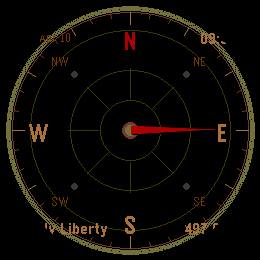
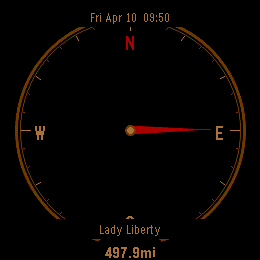
fix: 4 circle bubbles on round, black pills on rect, Premium default
Round: 4 black circle bubbles in each quadrant of the compass:
- Top-left: day + date (2 lines)
- Top-right: time
- Bottom-left: location name (wraps to 2 lines)
- Bottom-right: distance

Rect: black pill backgrounds behind all 4 corners so text is
visible over Tech theme's degree numbers.

Premium is now the default theme (enum value 0).
Minimal theme removed — 3 themes: Premium, Classic, Tech.

diff --git a/src/c/main.c b/src/c/main.c
@@ -25,7 +25,7 @@
 #define P_LOC_BASE 10  // 10-15=lat, 20-25=lon, 30-35=name
 
 // Themes
-enum { THEME_CLASSIC=0, THEME_TECH, THEME_PREMIUM };
+enum { THEME_PREMIUM=0, THEME_CLASSIC, THEME_TECH };
 #define NUM_THEMES 3
 
 // Units
@@ -204,61 +204,88 @@ static void draw_info(GContext *ctx, GRect b, float dist_m, const char *name,
   GFont f_sm = fonts_get_system_font(FONT_KEY_GOTHIC_14);
 
   if(rnd) {
-    // Round: centered text with pill backgrounds
-    int top_y = 8;
-    int bot_y = h - 40;
+    // Round: 4 small circle bubbles in each quadrant of the compass
+    int qr = 28;   // Bubble radius
+    int qd = 52;   // Distance from center to bubble center
+    // Top-left: date
+    int q1x=cx-qd, q1y=cy-qd;
+    graphics_context_set_fill_color(ctx, GColorBlack);
+    graphics_fill_circle(ctx, GPoint(q1x,q1y), qr);
+    graphics_context_set_text_color(ctx, dim_c);
+    // Split date into 2 lines
+    char day_buf[4], mon_buf[8];
+    strftime(day_buf, sizeof(day_buf), "%a", tm);
+    strftime(mon_buf, sizeof(mon_buf), "%b %d", tm);
+    graphics_draw_text(ctx, day_buf, f_sm,
+      GRect(q1x-qr+2,q1y-12,qr*2-4,14), GTextOverflowModeTrailingEllipsis, GTextAlignmentCenter, NULL);
+    graphics_draw_text(ctx, mon_buf, f_sm,
+      GRect(q1x-qr+2,q1y,qr*2-4,14), GTextOverflowModeTrailingEllipsis, GTextAlignmentCenter, NULL);
 
-    // Top center: date + time on one line
-    GRect top_r = GRect(30, top_y, w-60, 18);
-    draw_pill(ctx, top_r);
-    char dt_buf[20];
-    snprintf(dt_buf, sizeof(dt_buf), "%s  %s", dbuf_date, tbuf);
+    // Top-right: time
+    int q2x=cx+qd, q2y=cy-qd;
+    graphics_context_set_fill_color(ctx, GColorBlack);
+    graphics_fill_circle(ctx, GPoint(q2x,q2y), qr);
     graphics_context_set_text_color(ctx, text_c);
-    graphics_draw_text(ctx, dt_buf, f_sm, top_r,
-      GTextOverflowModeTrailingEllipsis, GTextAlignmentCenter, NULL);
+    graphics_draw_text(ctx, tbuf, f_md,
+      GRect(q2x-qr+2,q2y-10,qr*2-4,22), GTextOverflowModeTrailingEllipsis, GTextAlignmentCenter, NULL);
 
-    // Bottom: name + distance
     if(has_dest) {
-      GRect name_r = GRect(20, bot_y, w-40, 18);
-      draw_pill(ctx, name_r);
+      // Bottom-left: name (small, 2 lines if needed)
+      int q3x=cx-qd, q3y=cy+qd;
+      graphics_context_set_fill_color(ctx, GColorBlack);
+      graphics_fill_circle(ctx, GPoint(q3x,q3y), qr);
       graphics_context_set_text_color(ctx, text_c);
-      graphics_draw_text(ctx, name, f_sm, name_r,
-        GTextOverflowModeTrailingEllipsis, GTextAlignmentCenter, NULL);
+      graphics_draw_text(ctx, name, f_sm,
+        GRect(q3x-qr+4,q3y-12,qr*2-8,28), GTextOverflowModeWordWrap, GTextAlignmentCenter, NULL);
 
+      // Bottom-right: distance
+      int q4x=cx+qd, q4y=cy+qd;
+      graphics_context_set_fill_color(ctx, GColorBlack);
+      graphics_fill_circle(ctx, GPoint(q4x,q4y), qr);
       char dbuf[16]; fmt_dist(dbuf, sizeof(dbuf), dist_m);
-      GRect dist_r = GRect(w/2-30, bot_y+20, 60, 18);
-      draw_pill(ctx, dist_r);
-      graphics_draw_text(ctx, dbuf, f_md, dist_r,
-        GTextOverflowModeTrailingEllipsis, GTextAlignmentCenter, NULL);
+      graphics_context_set_text_color(ctx, text_c);
+      graphics_draw_text(ctx, dbuf, f_md,
+        GRect(q4x-qr+2,q4y-10,qr*2-4,22), GTextOverflowModeTrailingEllipsis, GTextAlignmentCenter, NULL);
     } else {
-      GRect nr = GRect(30, bot_y+4, w-60, 18);
-      draw_pill(ctx, nr);
+      int q3x=cx, q3y=cy+qd;
+      graphics_context_set_fill_color(ctx, GColorBlack);
+      graphics_fill_circle(ctx, GPoint(q3x,q3y), qr+4);
       graphics_context_set_text_color(ctx, dim_c);
-      graphics_draw_text(ctx, "Add in Settings", f_sm, nr,
-        GTextOverflowModeTrailingEllipsis, GTextAlignmentCenter, NULL);
+      graphics_draw_text(ctx, "Settings", f_sm,
+        GRect(q3x-qr,q3y-8,qr*2,16), GTextOverflowModeTrailingEllipsis, GTextAlignmentCenter, NULL);
     }
   } else {
     // Rect: 4 corners
-    // Top-left: date
+    // Top-left: date (with black background for visibility)
+    GRect dl = GRect(2, 2, w/2-4, 18);
+    draw_pill(ctx, dl);
     graphics_context_set_text_color(ctx, dim_c);
-    graphics_draw_text(ctx, dbuf_date, f_sm,
-      GRect(4, 4, w/2-4, 16), GTextOverflowModeTrailingEllipsis, GTextAlignmentLeft, NULL);
+    graphics_draw_text(ctx, dbuf_date, f_sm, dl,
+      GTextOverflowModeTrailingEllipsis, GTextAlignmentLeft, NULL);
     // Top-right: time
+    GRect tr = GRect(w/2+2, 2, w/2-4, 20);
+    draw_pill(ctx, tr);
     graphics_context_set_text_color(ctx, text_c);
-    graphics_draw_text(ctx, tbuf, f_md,
-      GRect(w/2, 2, w/2-4, 22), GTextOverflowModeTrailingEllipsis, GTextAlignmentRight, NULL);
+    graphics_draw_text(ctx, tbuf, f_md, tr,
+      GTextOverflowModeTrailingEllipsis, GTextAlignmentRight, NULL);
     // Bottom
     if(has_dest) {
+      GRect bl = GRect(2, h-20, w/2-4, 18);
+      draw_pill(ctx, bl);
       graphics_context_set_text_color(ctx, text_c);
-      graphics_draw_text(ctx, name, f_sm,
-        GRect(4, h-20, w/2-4, 18), GTextOverflowModeTrailingEllipsis, GTextAlignmentLeft, NULL);
+      graphics_draw_text(ctx, name, f_sm, bl,
+        GTextOverflowModeTrailingEllipsis, GTextAlignmentLeft, NULL);
       char dbuf[16]; fmt_dist(dbuf, sizeof(dbuf), dist_m);
-      graphics_draw_text(ctx, dbuf, f_md,
-        GRect(w/2, h-22, w/2-4, 22), GTextOverflowModeTrailingEllipsis, GTextAlignmentRight, NULL);
+      GRect br = GRect(w/2+2, h-22, w/2-4, 22);
+      draw_pill(ctx, br);
+      graphics_draw_text(ctx, dbuf, f_md, br,
+        GTextOverflowModeTrailingEllipsis, GTextAlignmentRight, NULL);
     } else {
+      GRect nb = GRect(4, h-20, w-8, 18);
+      draw_pill(ctx, nb);
       graphics_context_set_text_color(ctx, dim_c);
-      graphics_draw_text(ctx, "Add waypoints in Settings", f_sm,
-        GRect(4, h-18, w-8, 16), GTextOverflowModeTrailingEllipsis, GTextAlignmentCenter, NULL);
+      graphics_draw_text(ctx, "Add in Settings", f_sm, nb,
+        GTextOverflowModeTrailingEllipsis, GTextAlignmentCenter, NULL);
     }
   }
 }
